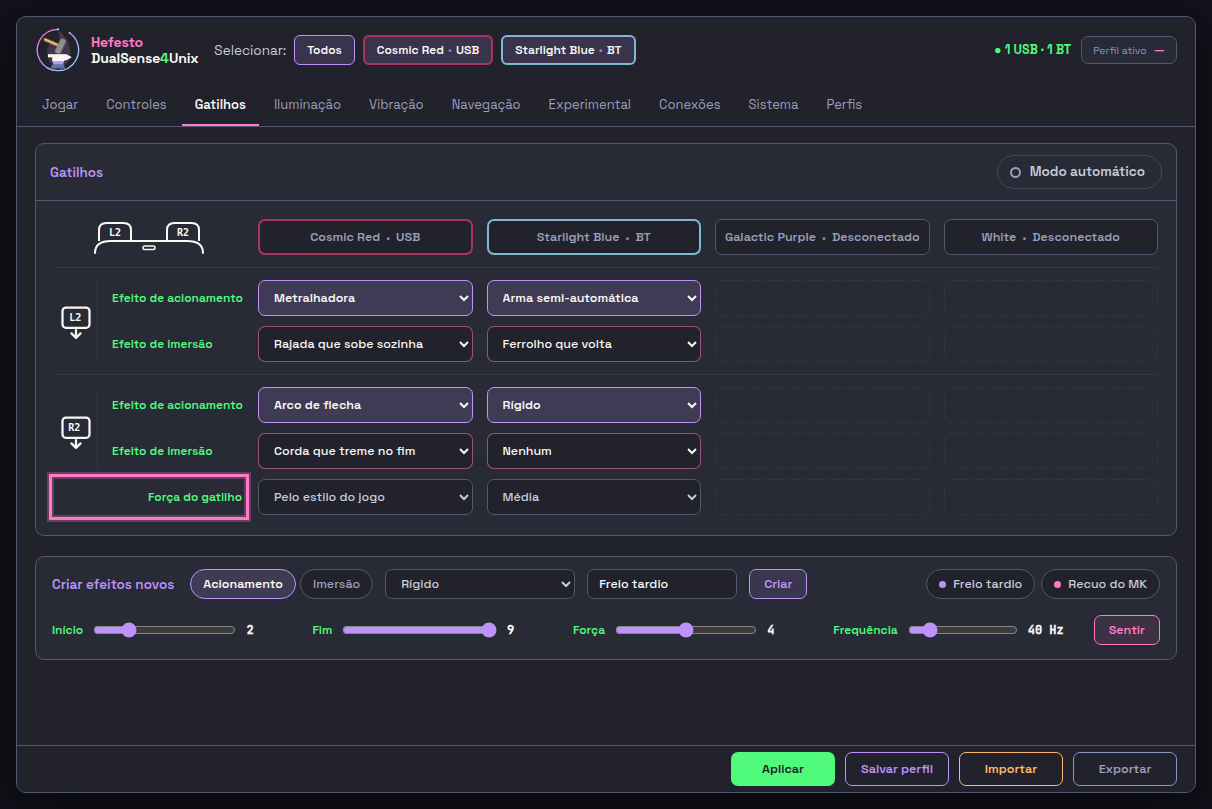
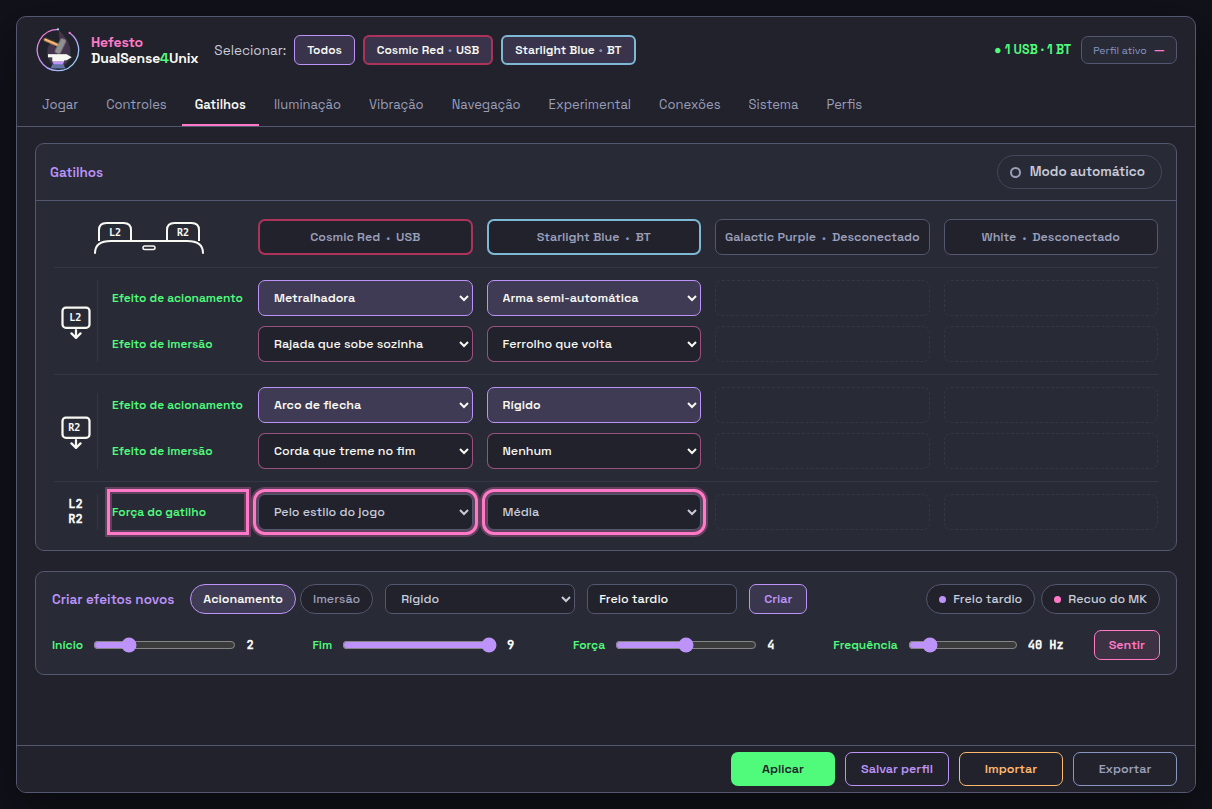
docs(volta): a força do gatilho ganha linha própria de L2 e R2, com o rótulo alinhado aos de cima

Changed region(s): [[0.0305, 0.5562, 0.9769, 0.8344], [0.9464, 0.8035, 0.9769, 0.8344]]

diff --git a/docs/research/2026-10-12-a-volta/paginas/todo-das-abas/todo/03-gatilhos.html b/docs/research/2026-10-12-a-volta/paginas/todo-das-abas/todo/03-gatilhos.html
@@ -1561,7 +1561,10 @@
   body.nativo.por-controle .r-aplicar,body.nativo.por-controle .r-salvar,
   body.nativo.por-controle .r-importar{visibility:hidden}
   /* Rodada 3 (13/10), ajustada em 14/10: a força do gatilho é um seletor por controle, como as linhas de cima; a primeira escolha segue o estilo do jogo */
-  .g2-rot-forca{grid-column:1 / span 2;justify-content:flex-end;padding-right:2px;min-height:36px}
+  .g2-rot-forca{grid-column:2;min-height:36px}
+  /* a força vale para L2 e R2: linha própria, abaixo de um separador, com o rótulo na mesma coluna dos de cima */
+  .g2-gl-forca{grid-column:1;align-self:stretch;display:flex;align-items:center;justify-content:center;
+    font:700 12px/1.25 'JetBrains Mono',monospace;color:var(--fg);text-align:center;border-right:1px solid var(--border-sutil)}
   .g2-grade:has(.g2-forca-sel){row-gap:10px}
   @media (max-height:780px){.g2-grade:has(.g2-forca-sel){row-gap:8px}}
 </style>
@@ -1888,6 +1891,8 @@ button[data-dica],a[data-dica],select[data-dica],input[data-dica],[role="button"
           <div class="g2-cel" data-controle="p2"><select class="g2-imersao" data-gesto="pronto" data-campo="pronto-d" data-hef-alvo="valor" data-lado="d" data-dica="Realismo por cima do acionamento" data-todo="3"><option value="nenhum" selected>Nenhum</option><optgroup label="Rígido"><option>Freio ABS que pulsa</option><option>Pedal no fundo</option><option>Porta emperrada</option></optgroup><optgroup label="Seus efeitos"><option>Recuo do MK</option></optgroup></select></div>
           <div class="g2-cel vazio" data-controle="p3"></div>
           <div class="g2-cel vazio" data-controle="p4"></div>
+          <div class="g2-sep"></div>
+          <div class="g2-gl-forca" aria-hidden="true">L2<br>R2</div>
           <div class="g2-rot g2-rot-forca" data-r3="15"><span class="sec-rot" data-dica="Segue o estilo do jogo, como o modo do gatilho. Vale para L2 e R2 deste controle">Força do gatilho</span></div>
           <div class="g2-cel" data-controle="p1"><select class="g2-partir g2-forca-sel" aria-label="Força do gatilho" data-gesto="forca-do-gatilho" data-dica="Pelo estilo do jogo, ou um dos quatro passos do firmware (Forte, Média, Fraca, Desligada), para L2 e R2 deste controle"><option value="estilo" selected>Pelo estilo do jogo</option><option value="Forte">Forte</option><option value="Media">Média</option><option value="Fraca">Fraca</option><option value="Desligada">Desligada</option></select></div>
           <div class="g2-cel" data-controle="p2"><select class="g2-partir g2-forca-sel" aria-label="Força do gatilho" data-gesto="forca-do-gatilho" data-dica="Pelo estilo do jogo, ou um dos quatro passos do firmware (Forte, Média, Fraca, Desligada), para L2 e R2 deste controle"><option value="estilo">Pelo estilo do jogo</option><option value="Forte">Forte</option><option value="Media" selected>Média</option><option value="Fraca">Fraca</option><option value="Desligada">Desligada</option></select></div>
